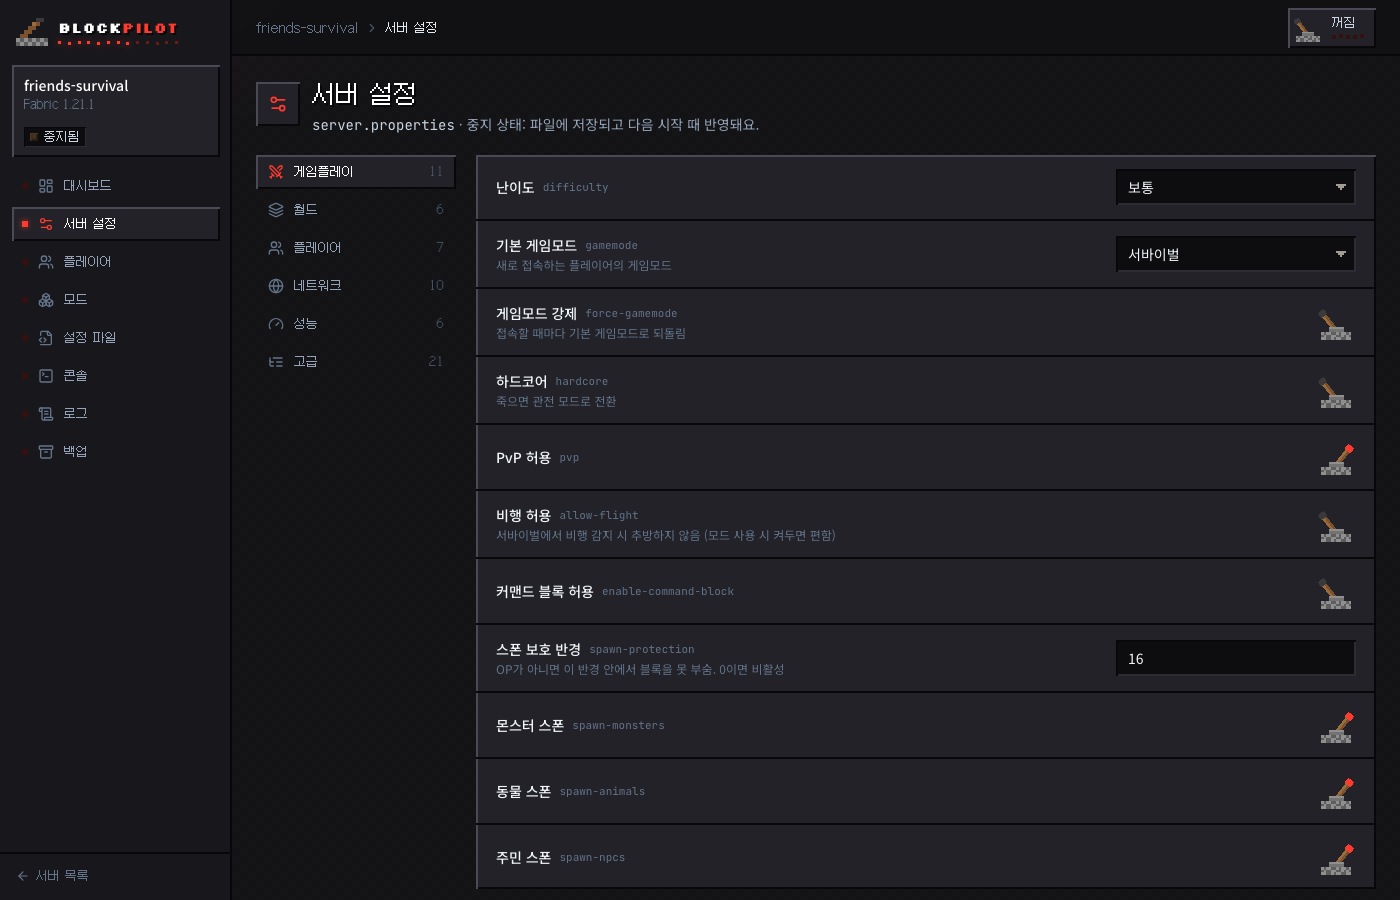
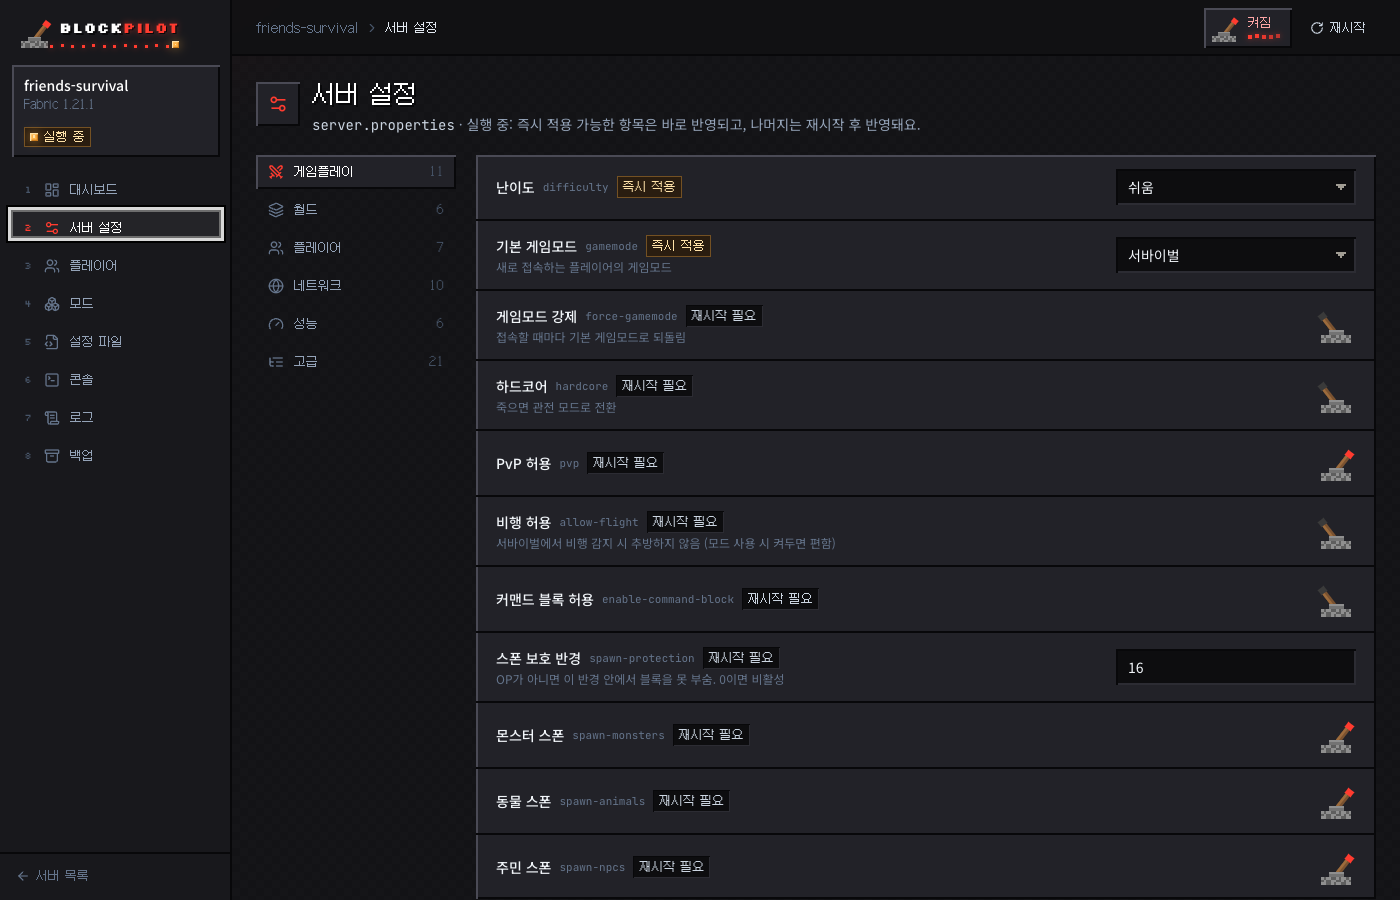
README 스크린샷 새로 찍기, 로고 가루가 레버 받침과 겹치지 않게
- 로고: 레드스톤 가루가 돌 받침 바로 옆에서 시작 (맨 왼쪽 점이 받침에 겹치던 것 수정), README 로고 이미지도 다시 그림
- README 스크린샷 13장을 새 로고·연출이 들어간 화면으로 다시 찍음 (데모 서버, 개인 경로 없음)
- 사용법: 레버로 켜고 끄기, 등록 해제와 서버 삭제 방법 추가

diff --git a/packages/web/src/App.tsx b/packages/web/src/App.tsx
@@ -95,8 +95,8 @@ export function Logo({ className, size = "md" }: { className?: string; size?: "m
   const dots = lg ? 22 : 12;
   const dot = lg ? 5 : 3;
   const tuck = lg ? 12 : 6;
-  // 레버 그림 오른쪽 빈칸(16칸 중 3칸)만큼 더 당겨서 가루가 받침에 바로 붙게
-  const reach = tuck + (lg ? 14 : 7);
+  // 레버 그림 오른쪽 빈칸(16칸 중 2칸)만큼만 당겨서, 가루가 돌 받침 바로 옆에서 시작하고 받침과 겹치지 않게
+  const reach = tuck + (lg ? 7 : 3);
   return (
     <span className={cx("logo-c inline-flex items-end", className)} data-on={on} style={{ "--lamp-delay": `${dots * 45 + 260}ms` } as CSSProperties}>
       <LeverGlyph className={lg ? "h-16 w-[73px] shrink-0" : "h-8 w-[37px] shrink-0"} />

diff --git a/README.md b/README.md
@@ -120,10 +120,13 @@ npm start
 ### 사용법
 
 1. **서버 등록** — 첫 화면에서 서버 폴더의 절대 경로를 입력합니다. (예: `/Users/me/minecraft/survival`, `C:\Minecraft\survival`) BlockPilot이 마인크래프트 서버 폴더인지 확인하고 로더·버전을 감지합니다.
-2. **시작** — 대시보드의 ▶ 시작 버튼. 폴더에 그 OS 의 시작 스크립트(`start.sh`·`run.sh` / Windows 는 `start.bat`·`run.bat`)가 있으면 **그 스크립트를 그대로 실행**하므로 메모리 옵션(`-Xmx` 등)은 스크립트에서 관리하면 됩니다. 스크립트가 없으면 감지된 서버 jar를 `java -Xms2G -Xmx4G -jar … nogui` 로 띄웁니다.
+2. **시작** — 대시보드의 **레버를 당기면** 서버가 켜집니다. 폴더에 그 OS 의 시작 스크립트(`start.sh`·`run.sh` / Windows 는 `start.bat`·`run.bat`)가 있으면 **그 스크립트를 그대로 실행**하므로 메모리 옵션(`-Xmx` 등)은 스크립트에서 관리하면 됩니다. 스크립트가 없으면 감지된 서버 jar를 `java -Xms2G -Xmx4G -jar … nogui` 로 띄웁니다.
 3. **설정 변경** — 서버 설정 탭에서 값을 바꾸고 하단 저장 바를 누릅니다. 실행 중이면 즉시 적용된 항목과 재시작이 필요한 항목을 알려줍니다.
 4. **친구 초대** — 플레이어 탭에서 닉네임 입력 → 추가. 모드 서버라면 모드 탭의 **친구용 zip 다운로드**로 클라이언트에 넣을 모드를 한 번에 전달할 수 있습니다.
-5. **중지** — ■ 중지는 `stop` 명령을 보내 월드 저장을 기다린 뒤 종료합니다 (30초 무응답 시 시작 스크립트와 java 를 함께 강제 종료). BlockPilot 자체를 `Ctrl+C` 로 끄면 떠 있는 서버도 같은 방식으로 정리합니다.
+5. **중지** — 켜진 레버를 **두 번 당기면**(3초 안에 한 번 더) `stop` 명령을 보내 월드 저장을 기다린 뒤 종료합니다 (30초 무응답 시 시작 스크립트와 java 를 함께 강제 종료). BlockPilot 자체를 `Ctrl+C` 로 끄면 떠 있는 서버도 같은 방식으로 정리합니다.
+6. **목록에서 빼기 · 서버 삭제** — 서버를 끈 뒤 **서버 설정** 탭 맨 아래 **서버 관리**로 갑니다.
+   - **등록 해제**: BlockPilot 목록에서만 빼요. 서버 폴더와 월드는 그대로 남습니다. 서버 목록 화면의 "등록 해제"도 같아요.
+   - **서버 삭제…**: 서버 폴더를 통째로 영구 삭제해요. 창에 서버 이름을 그대로 입력하고 **영구 삭제**를 누르면 TNT 가 터지며 지워집니다. 폴더 안 `backups/` 도 함께 지워지니 필요하면 먼저 백업 화면에서 다운로드해 두세요.
 
 > **BlockPilot 밖에서 서버를 띄운 경우** — 대시보드에 "외부 실행 중"으로 표시됩니다. `server.properties` 에서 `enable-rcon=true`, `rcon.password=…` 를 설정하고 서버를 재시작하면 콘솔 명령·중지·접속자 조회가 RCON으로 동작합니다.
 
